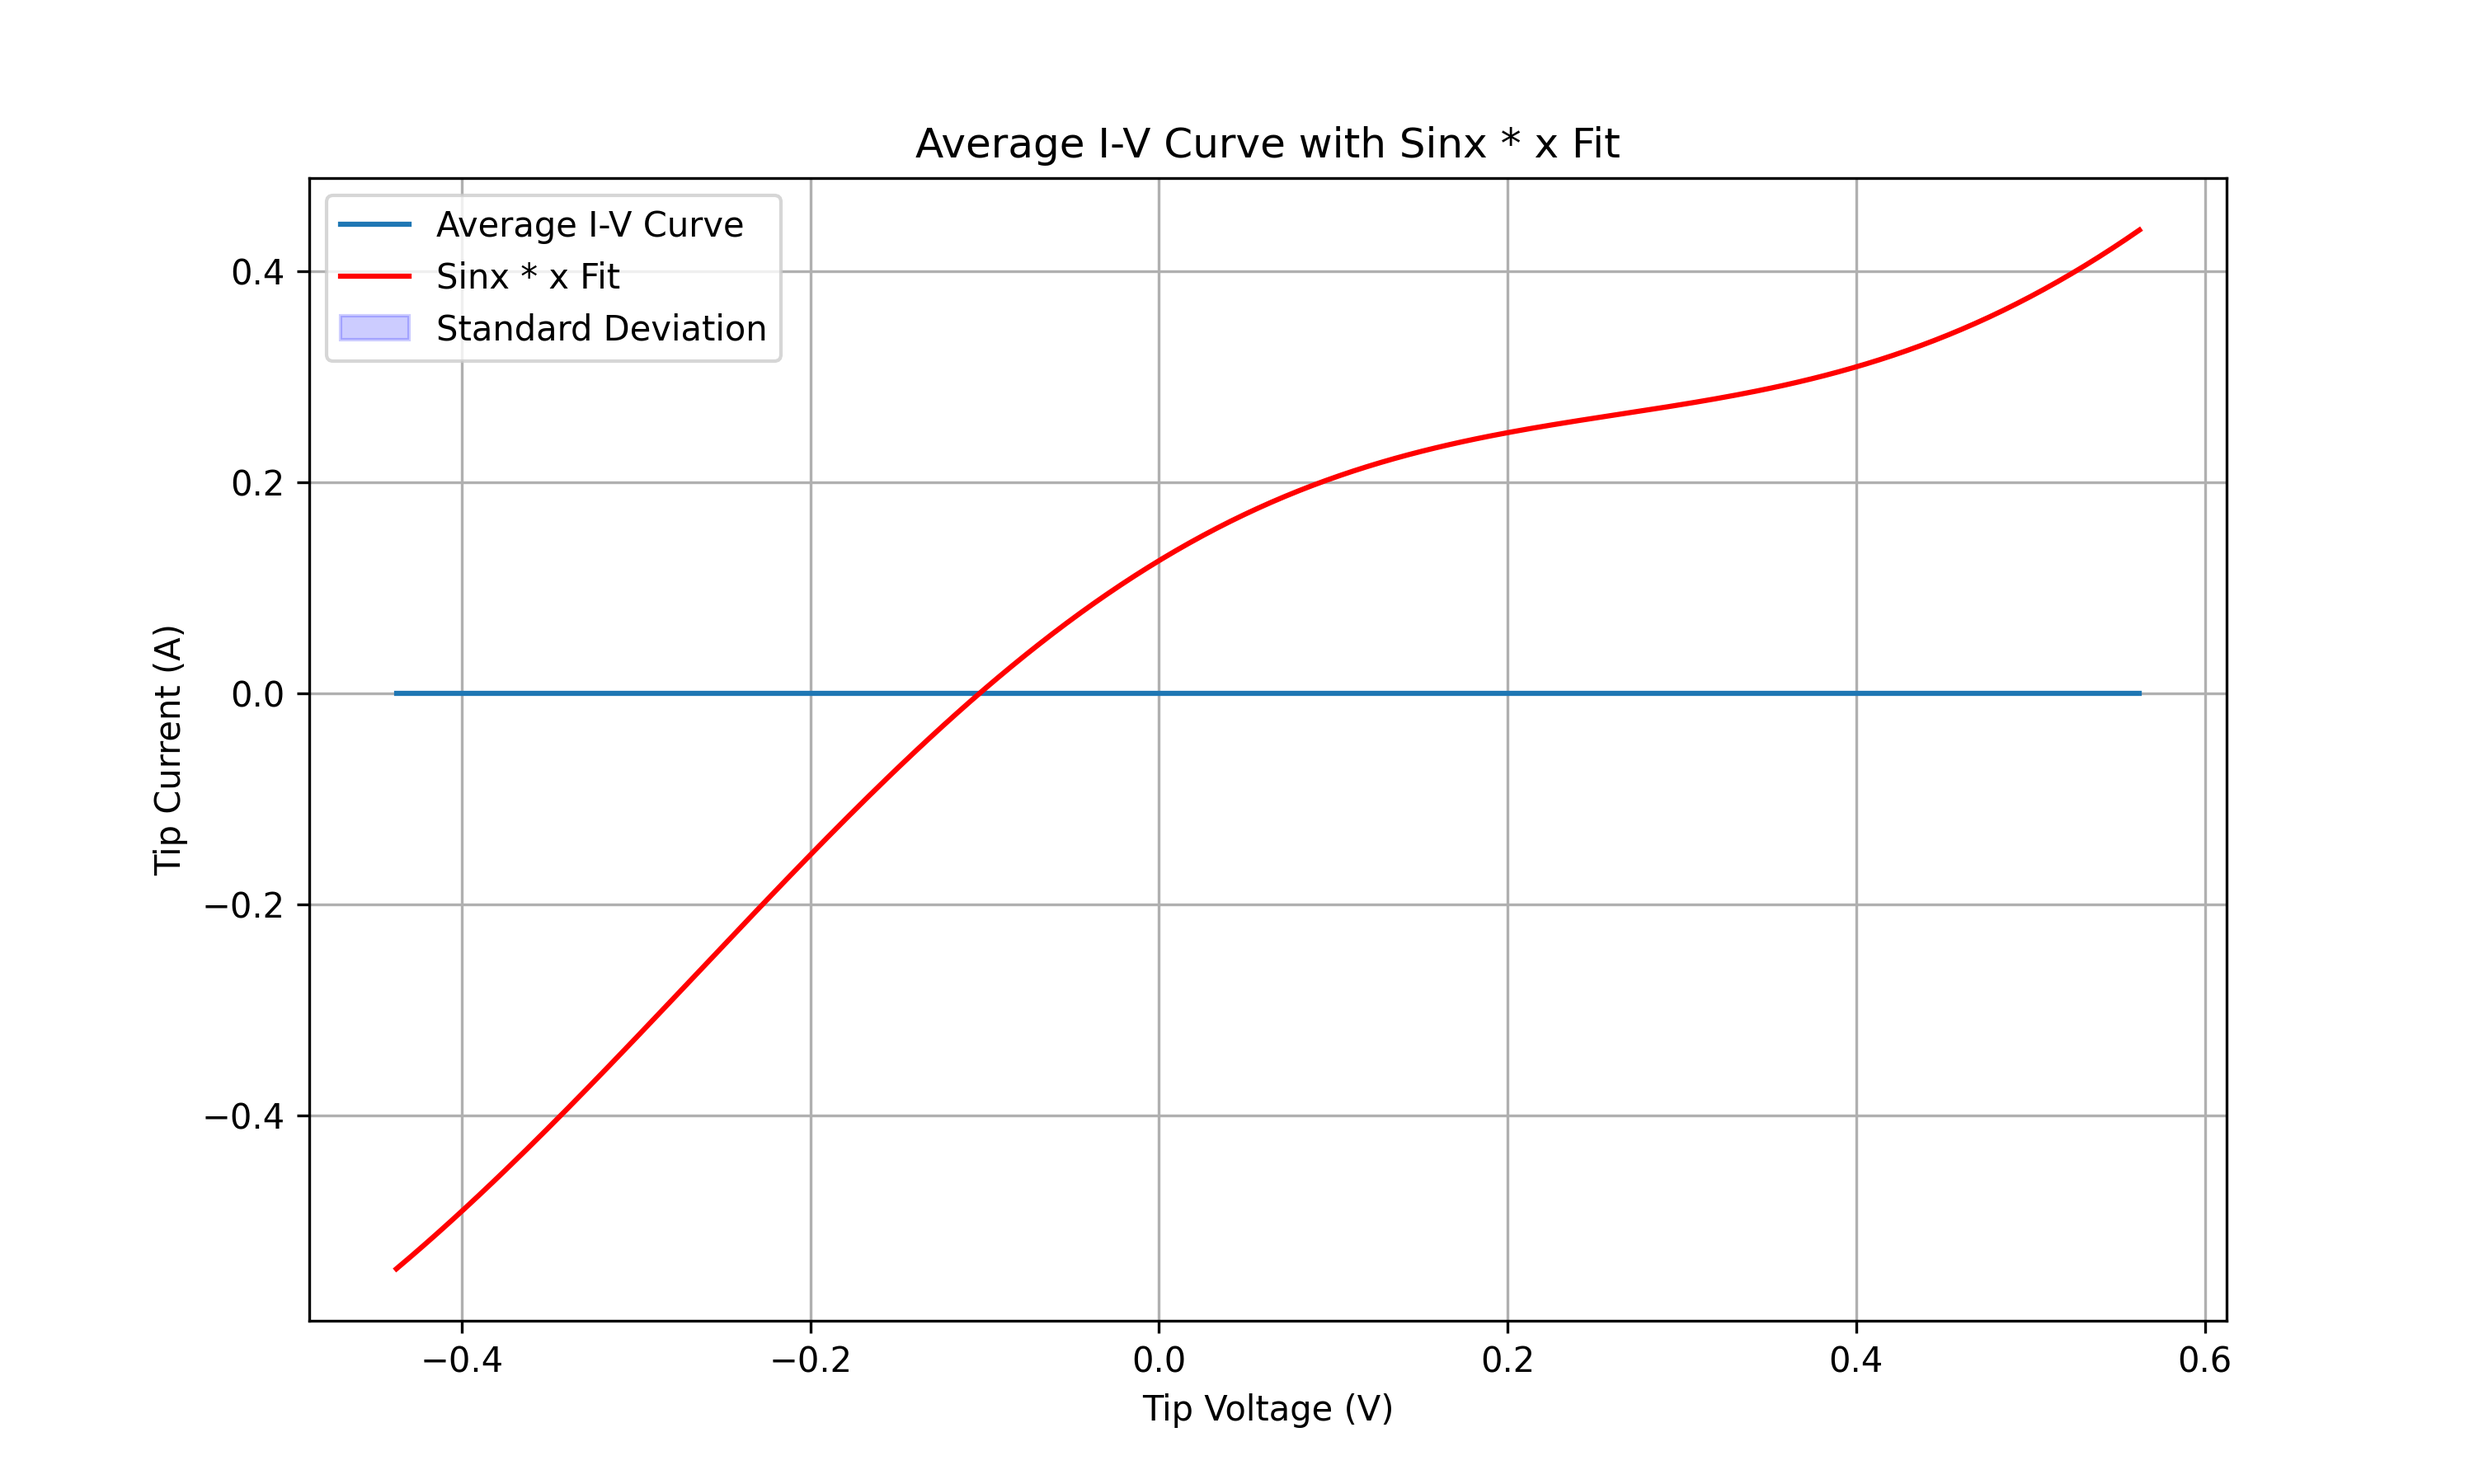
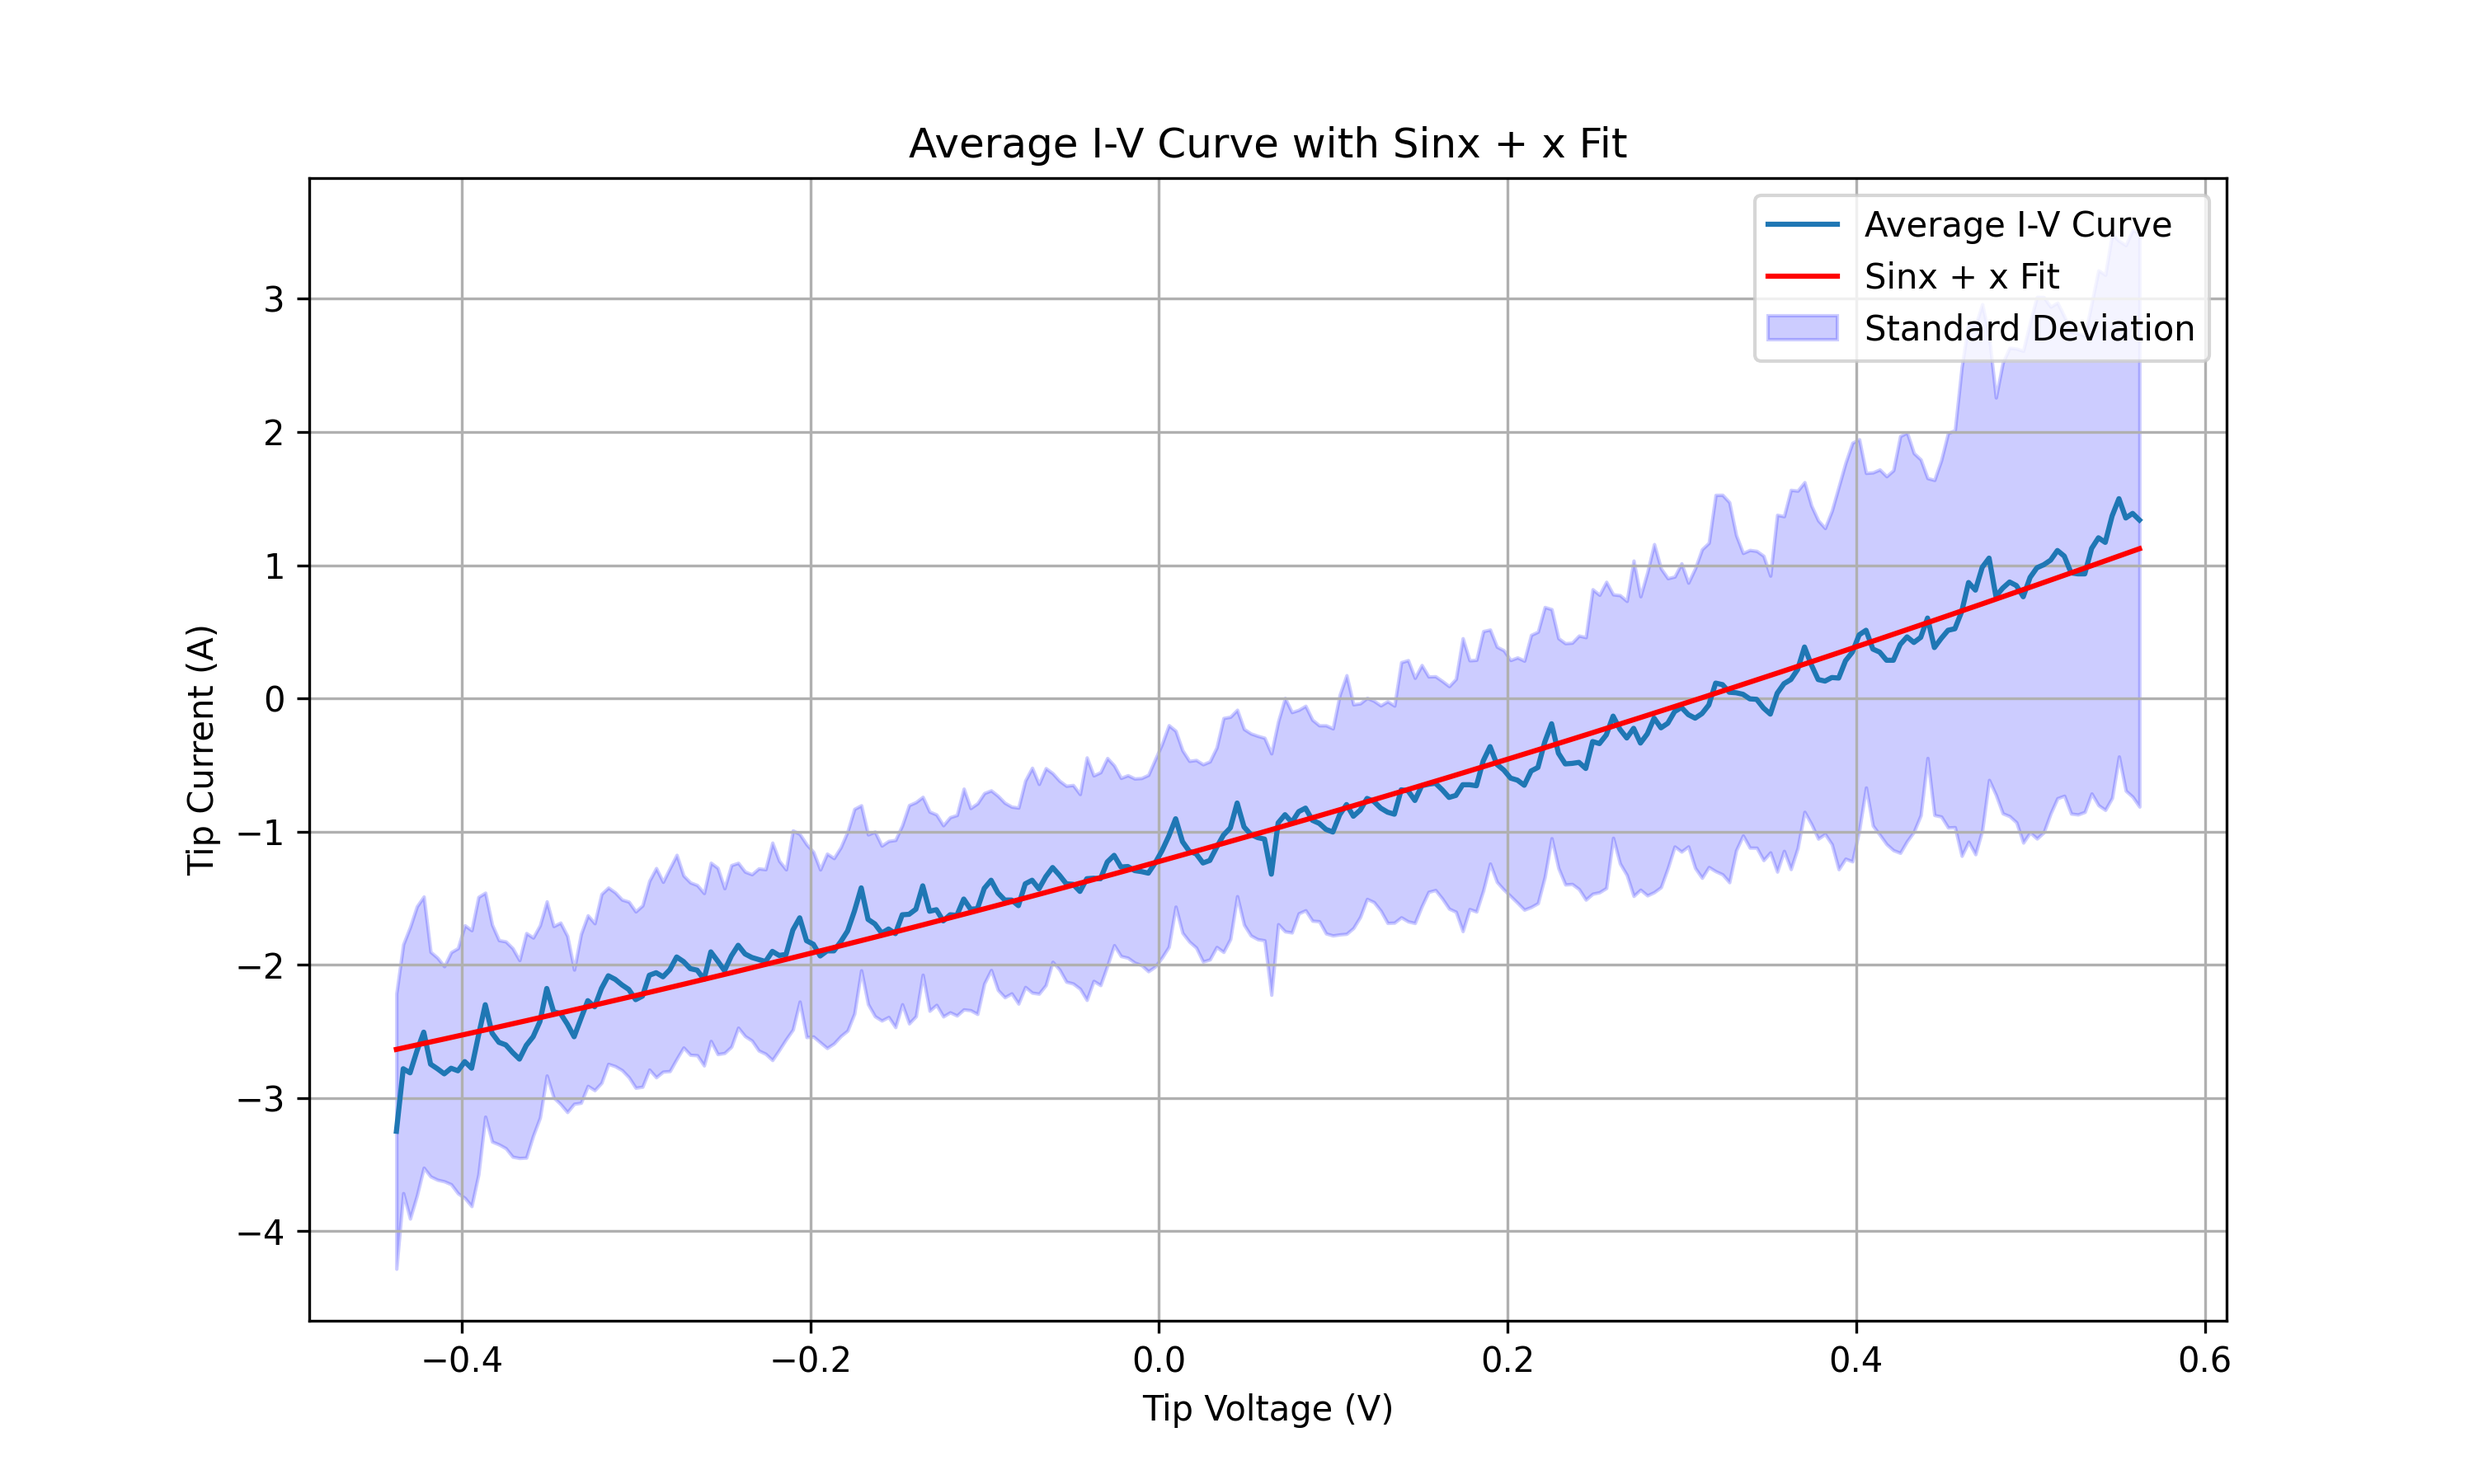
Added a sinx+x type of fit to the gold IV spectra

diff --git a/IVSpecGold.py b/IVSpecGold.py
@@ -94,7 +94,7 @@ plt.show()
 
 # Define the sinx + x function
 def sinx_x(V, a, b, c):
-    return a * np.sin(b * V) + c*V
+    return a * np.cos(b * V) + c*V
 
 # Fit the average I-V data to the sinx * x function
 params, params_covariance = curve_fit(sinx_x, average_V, average_I)
